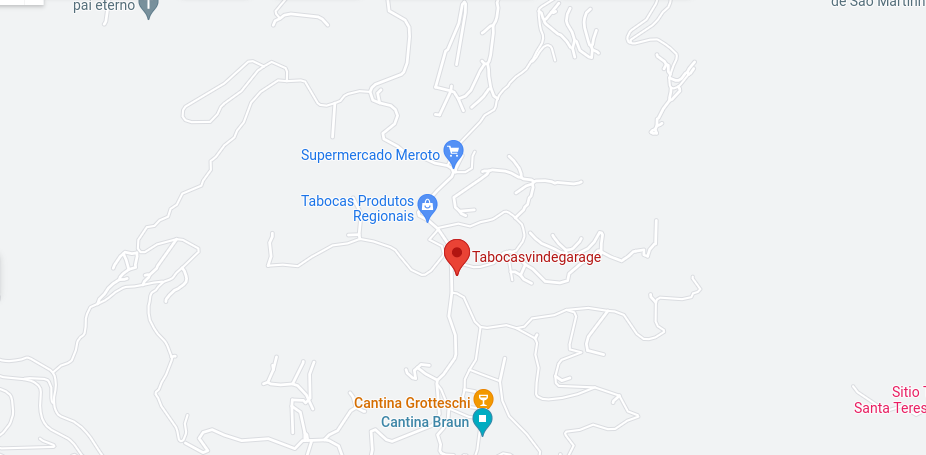
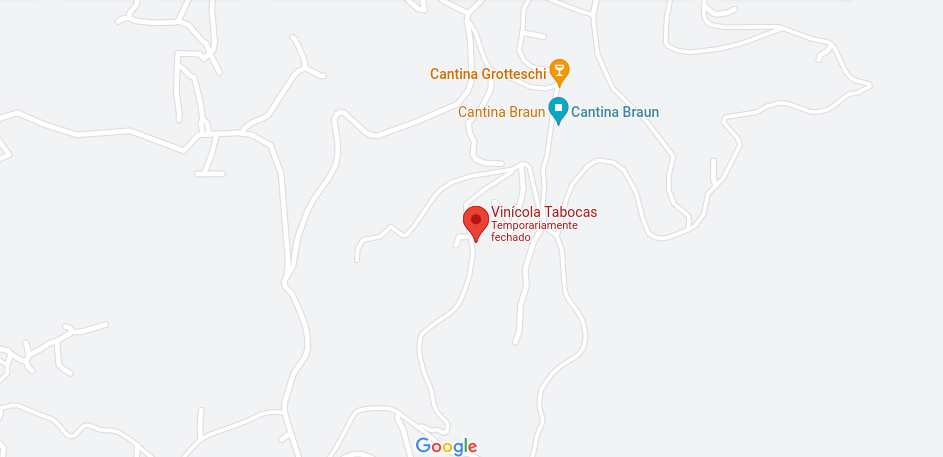
Ajustes nos dados Tabocas, Aproaast e Ziviani.
Reordenação das cantinas no NavBar
Ajustes nos dados Tabocas, Aproaast e Ziviani.
Correção da localização do Tabocas (e da imagem do mapa).

diff --git a/database/seeders/EmpresaContatosSeeder.php b/database/seeders/EmpresaContatosSeeder.php
@@ -31,17 +31,17 @@ class EmpresaContatosSeeder extends Seeder
             [ //https://www.w3schools.com/php/php_ref_string.asp - Funções de String PHP
                 'empresa_id'      => $empresa,
                 'contato_tipo_id' => 1, // Telefone Fixo
-                'descricao'       => '2732591943',
-                'created_at' => $data,
-                'updated_at' => $data,
-            ],/*
-            [
-                'empresa_id'      => $empresa,
-                'contato_tipo_id' => 2, // Whatsapp
-                'descricao'       => '',
+                'descricao'       => '27992528208',
                 'created_at' => $data,
                 'updated_at' => $data,
             ],
+            [
+                'empresa_id'      => $empresa,
+                'contato_tipo_id' => 2, // Whatsapp
+                'descricao'       => '27992528208',
+                'created_at' => $data,
+                'updated_at' => $data,
+            ],/*
             [
                 'empresa_id'      => $empresa,
                 'contato_tipo_id' => 3, // Email

diff --git a/resources/views/layout/partials/nav.blade.php b/resources/views/layout/partials/nav.blade.php
@@ -25,8 +25,8 @@
                         <li><a class="dropdown-item" href="{{route('rota_profile_empresa', 5)}}">Cantina Romanha</a></li>
                         <li><a class="dropdown-item" href="{{route('rota_profile_empresa', 6)}}">Casa dos Espumantes</a></li>
                         <li><a class="dropdown-item" href="{{route('rota_profile_empresa', 7)}}">Vinícola Tomazelli</a></li>
-                        <li><a class="dropdown-item" href="{{route('rota_profile_empresa', 8)}}">Cantina Braun</a></li>
                         <li><a class="dropdown-item" href="{{route('rota_profile_empresa', 9)}}">Cantina Grotteschi</a></li>
+                        <li><a class="dropdown-item" href="{{route('rota_profile_empresa', 8)}}">Cantina Braun</a></li>
                         <li><a class="dropdown-item" href="{{route('rota_profile_empresa', 10)}}">Tabocas Vin de Garage</a></li>
                         <li><a class="dropdown-item" href="{{route('rota_profile_empresa', 11)}}">Vinícola Ziviani</a></li>
                     </ul>

diff --git a/database/seeders/EmpresaServicosSeeder.php b/database/seeders/EmpresaServicosSeeder.php
@@ -278,9 +278,9 @@ class EmpresaServicosSeeder extends Seeder
             [
                 'empresa_id' => $empresa,
                 'nome'       => 'Expediente',
-                'descricao'  => 'De Segunda-Feira a Sexta-Feira',
+                'descricao'  => 'Somente com agendamento prévio.',
                 'hiperlink'  => '',
-                'horario'    => 'Das 13:00 às 17:00.',
+                'horario'    => 'Conferir via WhatsApp (Veja números de contato abaixo).',
                 'ativo'      => true,
                 'created_at' => $data,
                 'updated_at' => $data,
@@ -295,7 +295,7 @@ class EmpresaServicosSeeder extends Seeder
                 'nome'       => 'Expediente',
                 'descricao'  => 'Diariamente',
                 'hiperlink'  => '',
-                'horario'    => 'Das ', // Pendente
+                'horario'    => 'Das 08:00 às 16:30.',
                 'ativo'      => true,
                 'created_at' => $data,
                 'updated_at' => $data,

diff --git a/database/seeders/EmpresasSeeder.php b/database/seeders/EmpresasSeeder.php
@@ -129,9 +129,9 @@ class EmpresasSeeder extends Seeder
                 'id' => 10,
                 'empresa_tipo_id'   => 2, // Vinícola/Cantina
                 'nomeEmpresa'       => 'Tabocas Vin De Garage',
-                'linkGoogleMaps'    => 'https://goo.gl/maps/gH1HEL2nQARE5sf18',
-                'latitude'          => -19.912115,
-                'longitude'         => -40.694446,
+                'linkGoogleMaps'    => 'https://goo.gl/maps/pt7SBQQW8ZkS1n8r7',
+                'latitude'          => -19.9209622,
+                'longitude'         => -40.6950227,
                 'caminhoImagem'     => '/images/10tabocas/',
                 'created_at' => $data,
                 'updated_at' => $data,

diff --git a/database/seeders/EmpresaPessoasSeeder.php b/database/seeders/EmpresaPessoasSeeder.php
@@ -17,19 +17,17 @@ class EmpresaPessoasSeeder extends Seeder
     {
         $data = Carbon::now()->toDateTimeString();
 
-        /*
         // Galeria de Artesanato
         $empresa = 1;
         DB::table('empresa_pessoas')->insert([
             [
                 'empresa_id' => $empresa,
-                'nome'       => 'Nome Pessoa xxx',
-                'email'      => 'emailPessoa1@TESTE.br',
+                'nome'       => 'Eliana Breotto (Presidente)',
+                'email'      => '',
                 'created_at' => $data,
                 'updated_at' => $data,
             ],
         ]);
-        */
 
         // Rassele
         $empresa = 2;
